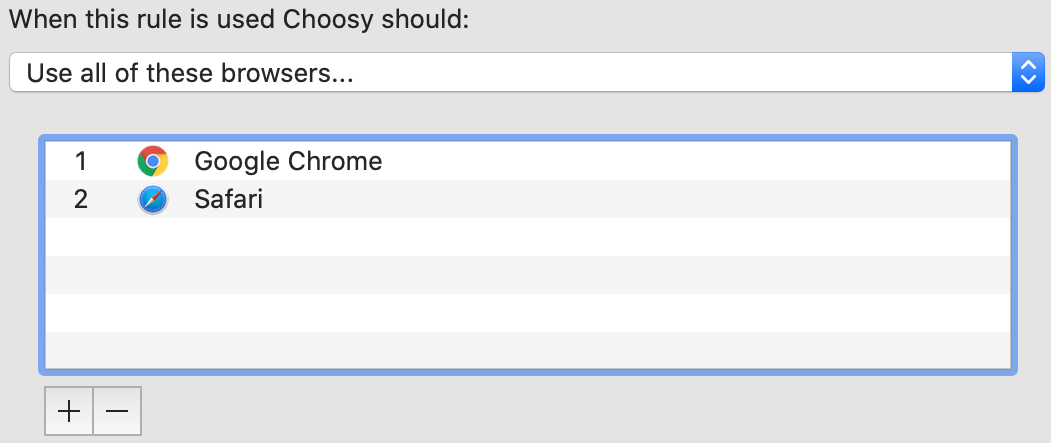
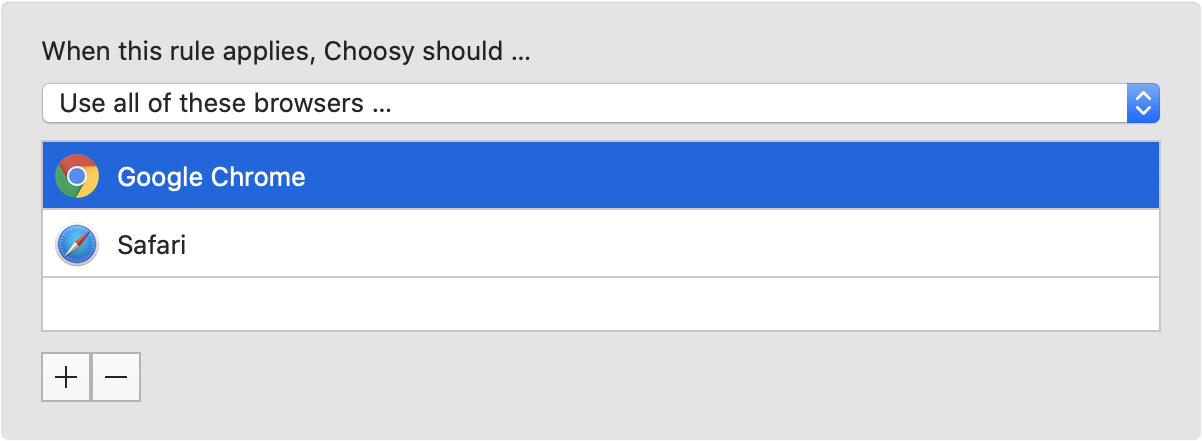
Update screenshots for new 2.2 UI.

diff --git a/ChoosyHelp.help/Contents/Resources/settings/rules.html b/ChoosyHelp.help/Contents/Resources/settings/rules.html
@@ -47,12 +47,12 @@
 		<p>
 			When adding or editing rules this window will be displayed:
 		</p>
+
 		<img 
 			src="../images/settings_advanced_edit.png" 
 			alt="A screenshot of Choosy's rule editing interface"
-			width="708" height="726" />
-		
-		
+			width="712" height="643" />
+
 		<p>
 			This window contains three groups of options:
 		</p>
@@ -345,7 +345,7 @@
 					<img 
 						src="../images/settings_advanced_behaviour_custom.png"
 						alt="A screenshot of Choosy's &quot;prompt to select from these browsers&quot; interface"
-						width="526" height="223" />
+						width="600" height="219" />
 				</dd>
 				
 				<dt>Always use this browser&hellip;</dt>
@@ -358,7 +358,7 @@
 					<img 
 						src="../images/settings_advanced_behaviour_specific.png"
 						alt="A screenshot of Choosy's &quot;always use this browser&quot; interface"
-						width="530" height="107" />
+						width="600" height="120" />
 				</dd>
 
 				<dt>Use all of these browsers&hellip;</dt>
@@ -372,7 +372,7 @@
 					<img
 						src="../images/settings_advanced_behaviour_all.png"
 						alt="A screenshot of Choosy's &quot;use all of these browsers&quot; interface"
-						width="526" height="222" />
+						width="601" height="220" />
 				</dd>
 			</dl>
 			

diff --git a/ChoosyHelp.help/Contents/Resources/basic/configuration.html b/ChoosyHelp.help/Contents/Resources/basic/configuration.html
@@ -32,7 +32,12 @@
 				Whenever Choosy isn't set as your default browser, it will display a
 				prompt at the bottom of the settings window:
 			</p>
-			<p style="background:#fee;border:5px dashed red;color:red;padding:1em;"><strong>TODO:</strong> screenshot</p>
+
+			<img 
+				src="../images/basic_configuration_default.png" 
+				alt="A screenshot of Choosy's default browser prompt"
+				width="601" height="66" />
+
 			<p>
 				You can change also your macOS default browser any time in the macOS
 				System Preferences app.
@@ -75,7 +80,12 @@
 				For example, here's one of the default rules that Choosy sets up for
 				you when first installed:
 			</p>
-			<p style="background:#fee;border:5px dashed red;color:red;padding:1em;"><strong>TODO:</strong> screenshot</p>
+
+			<img 
+				src="../images/basic_configuration_rule.png" 
+				alt="A screenshot of Choosy's rule editor, showing one of the default rules"
+				width="640" height="355" />
+
 			<p>
 				The condition for this rule is that some of the browsers in your browser
 				list must be running. When that condition is met, the behaviour is for

diff --git a/ChoosyHelp.help/Contents/Resources/misc/registration.html b/ChoosyHelp.help/Contents/Resources/misc/registration.html
@@ -24,7 +24,10 @@
 		bottom of the settings window:
 	</p>
 
-	<p style="background:#fee;border:5px dashed red;color:red;padding:1em;"><strong>TODO:</strong> screenshot</p>
+	<img 
+		src="../images/misc_registration_trial.png" 
+		alt="A screenshot of Choosy's trial period notification"
+		width="601" height="66" />
 
 	<p>
 		If you find Choosy useful and want to continue using it beyond the trial
